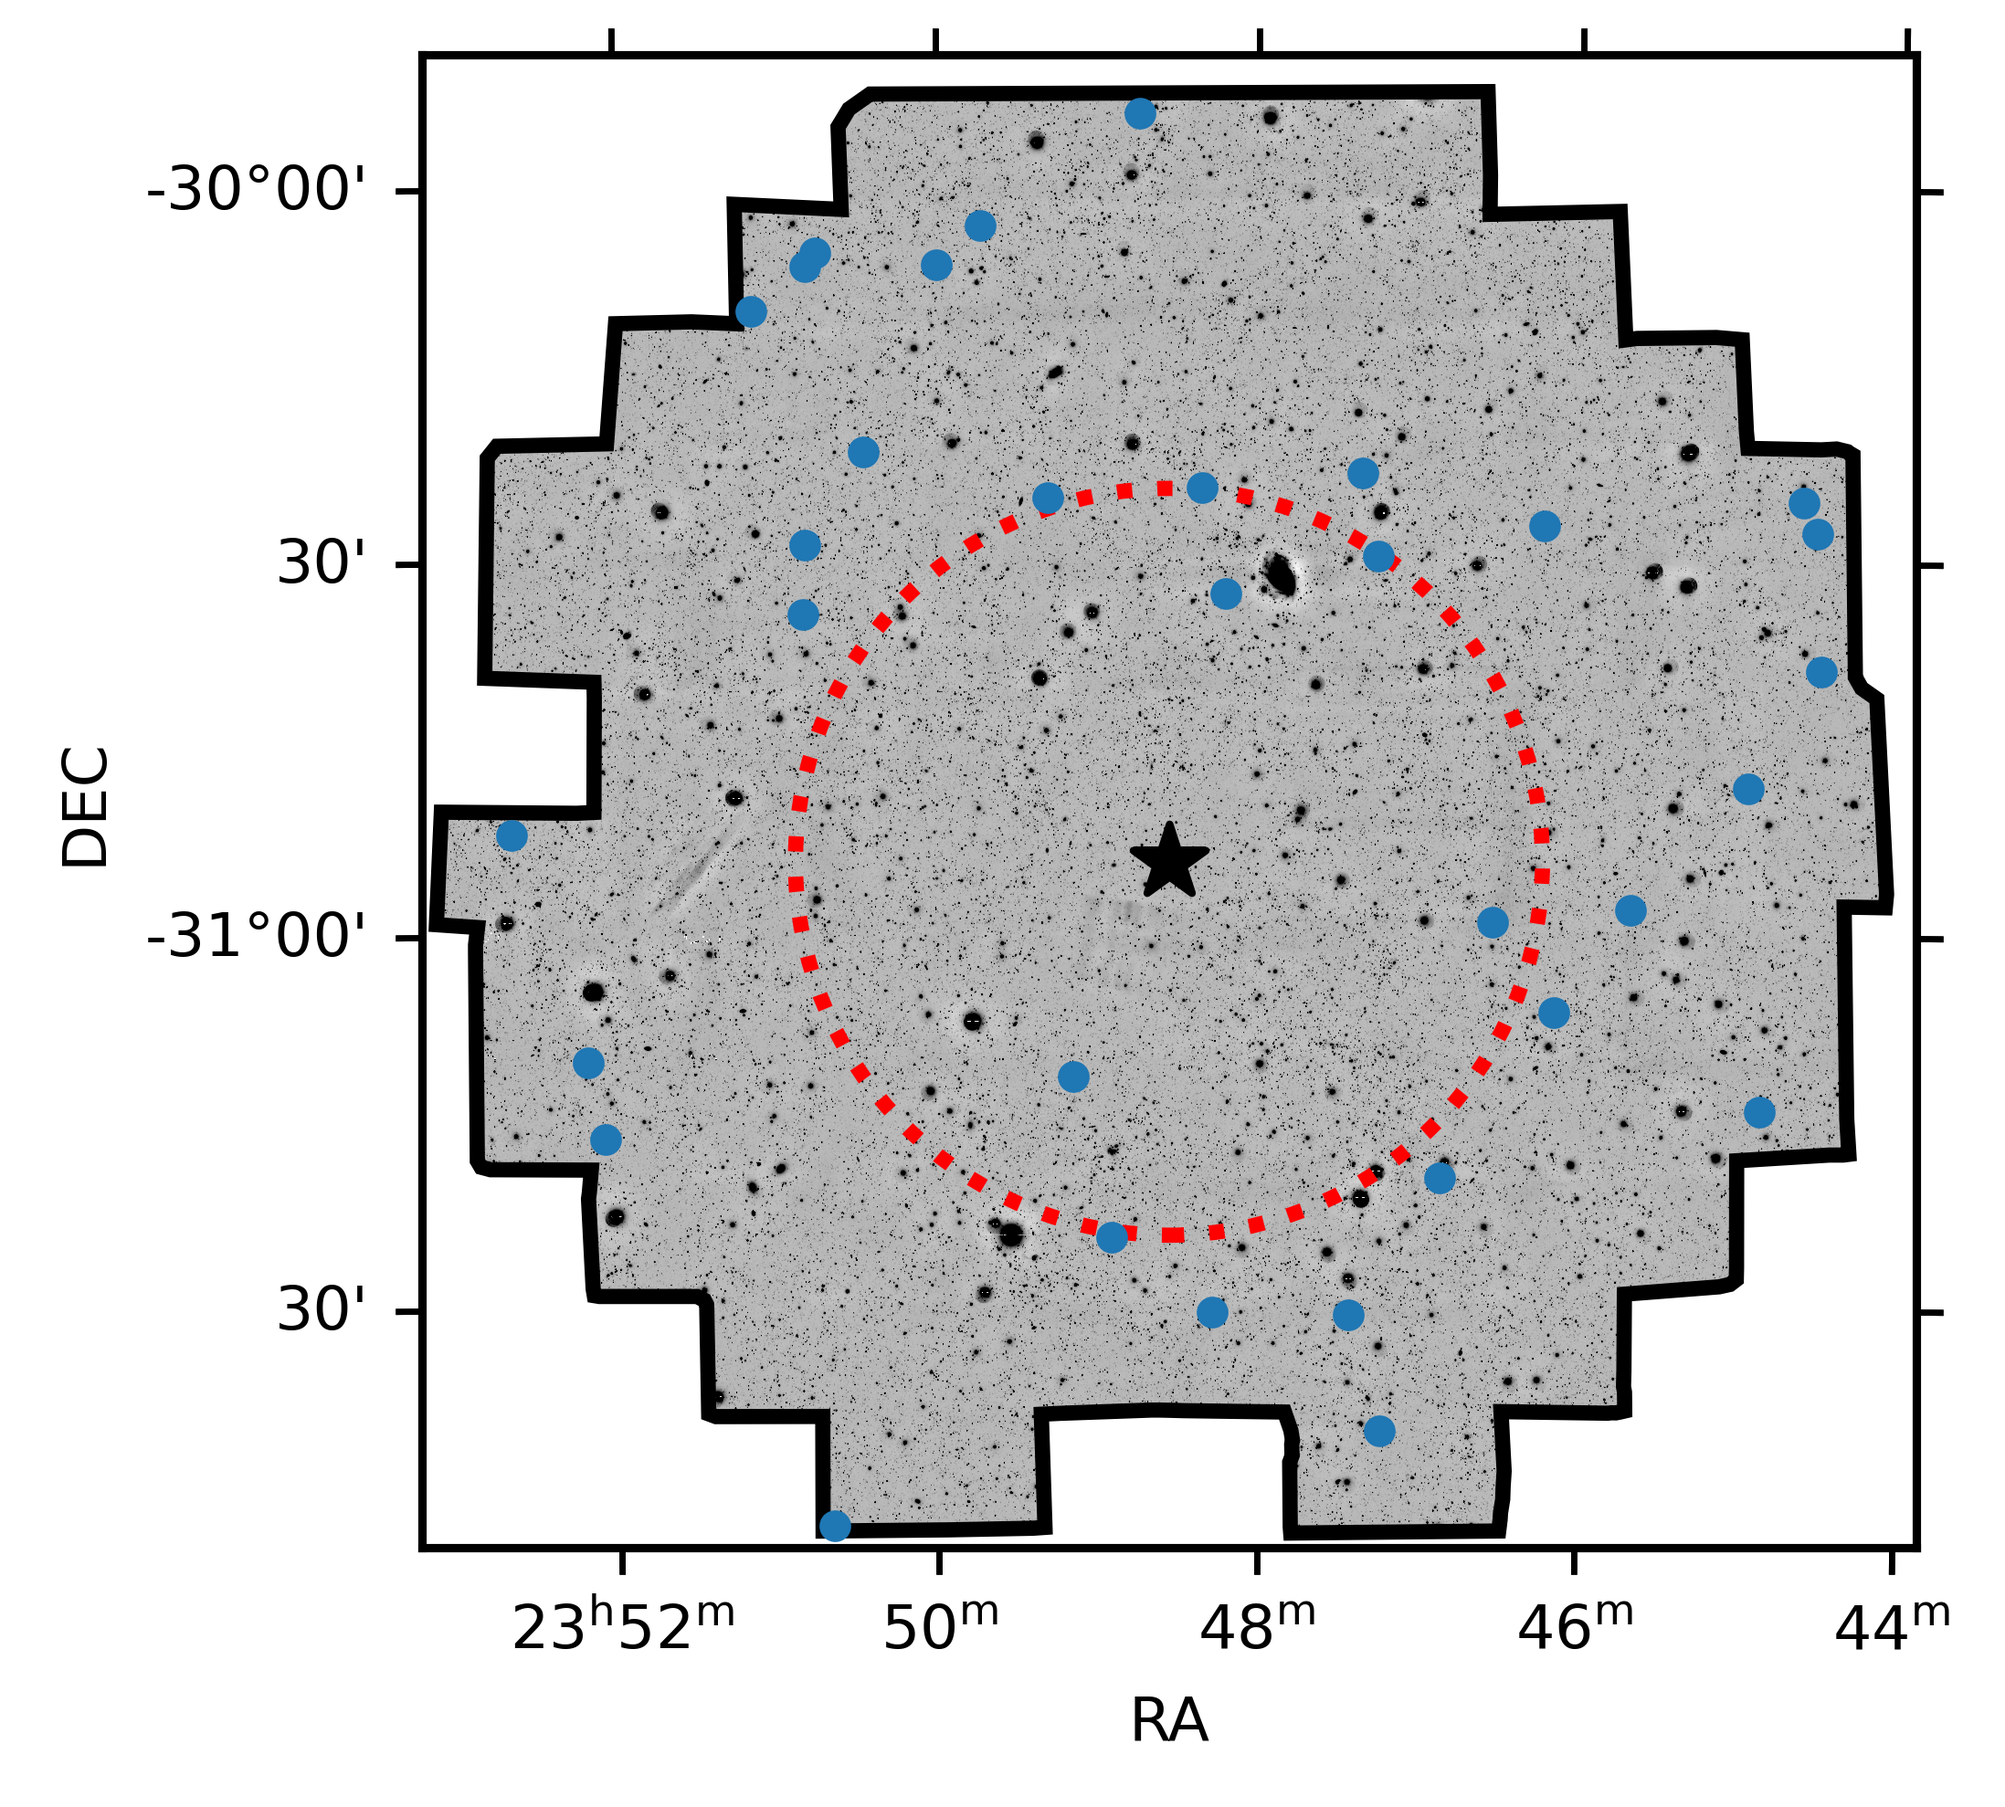
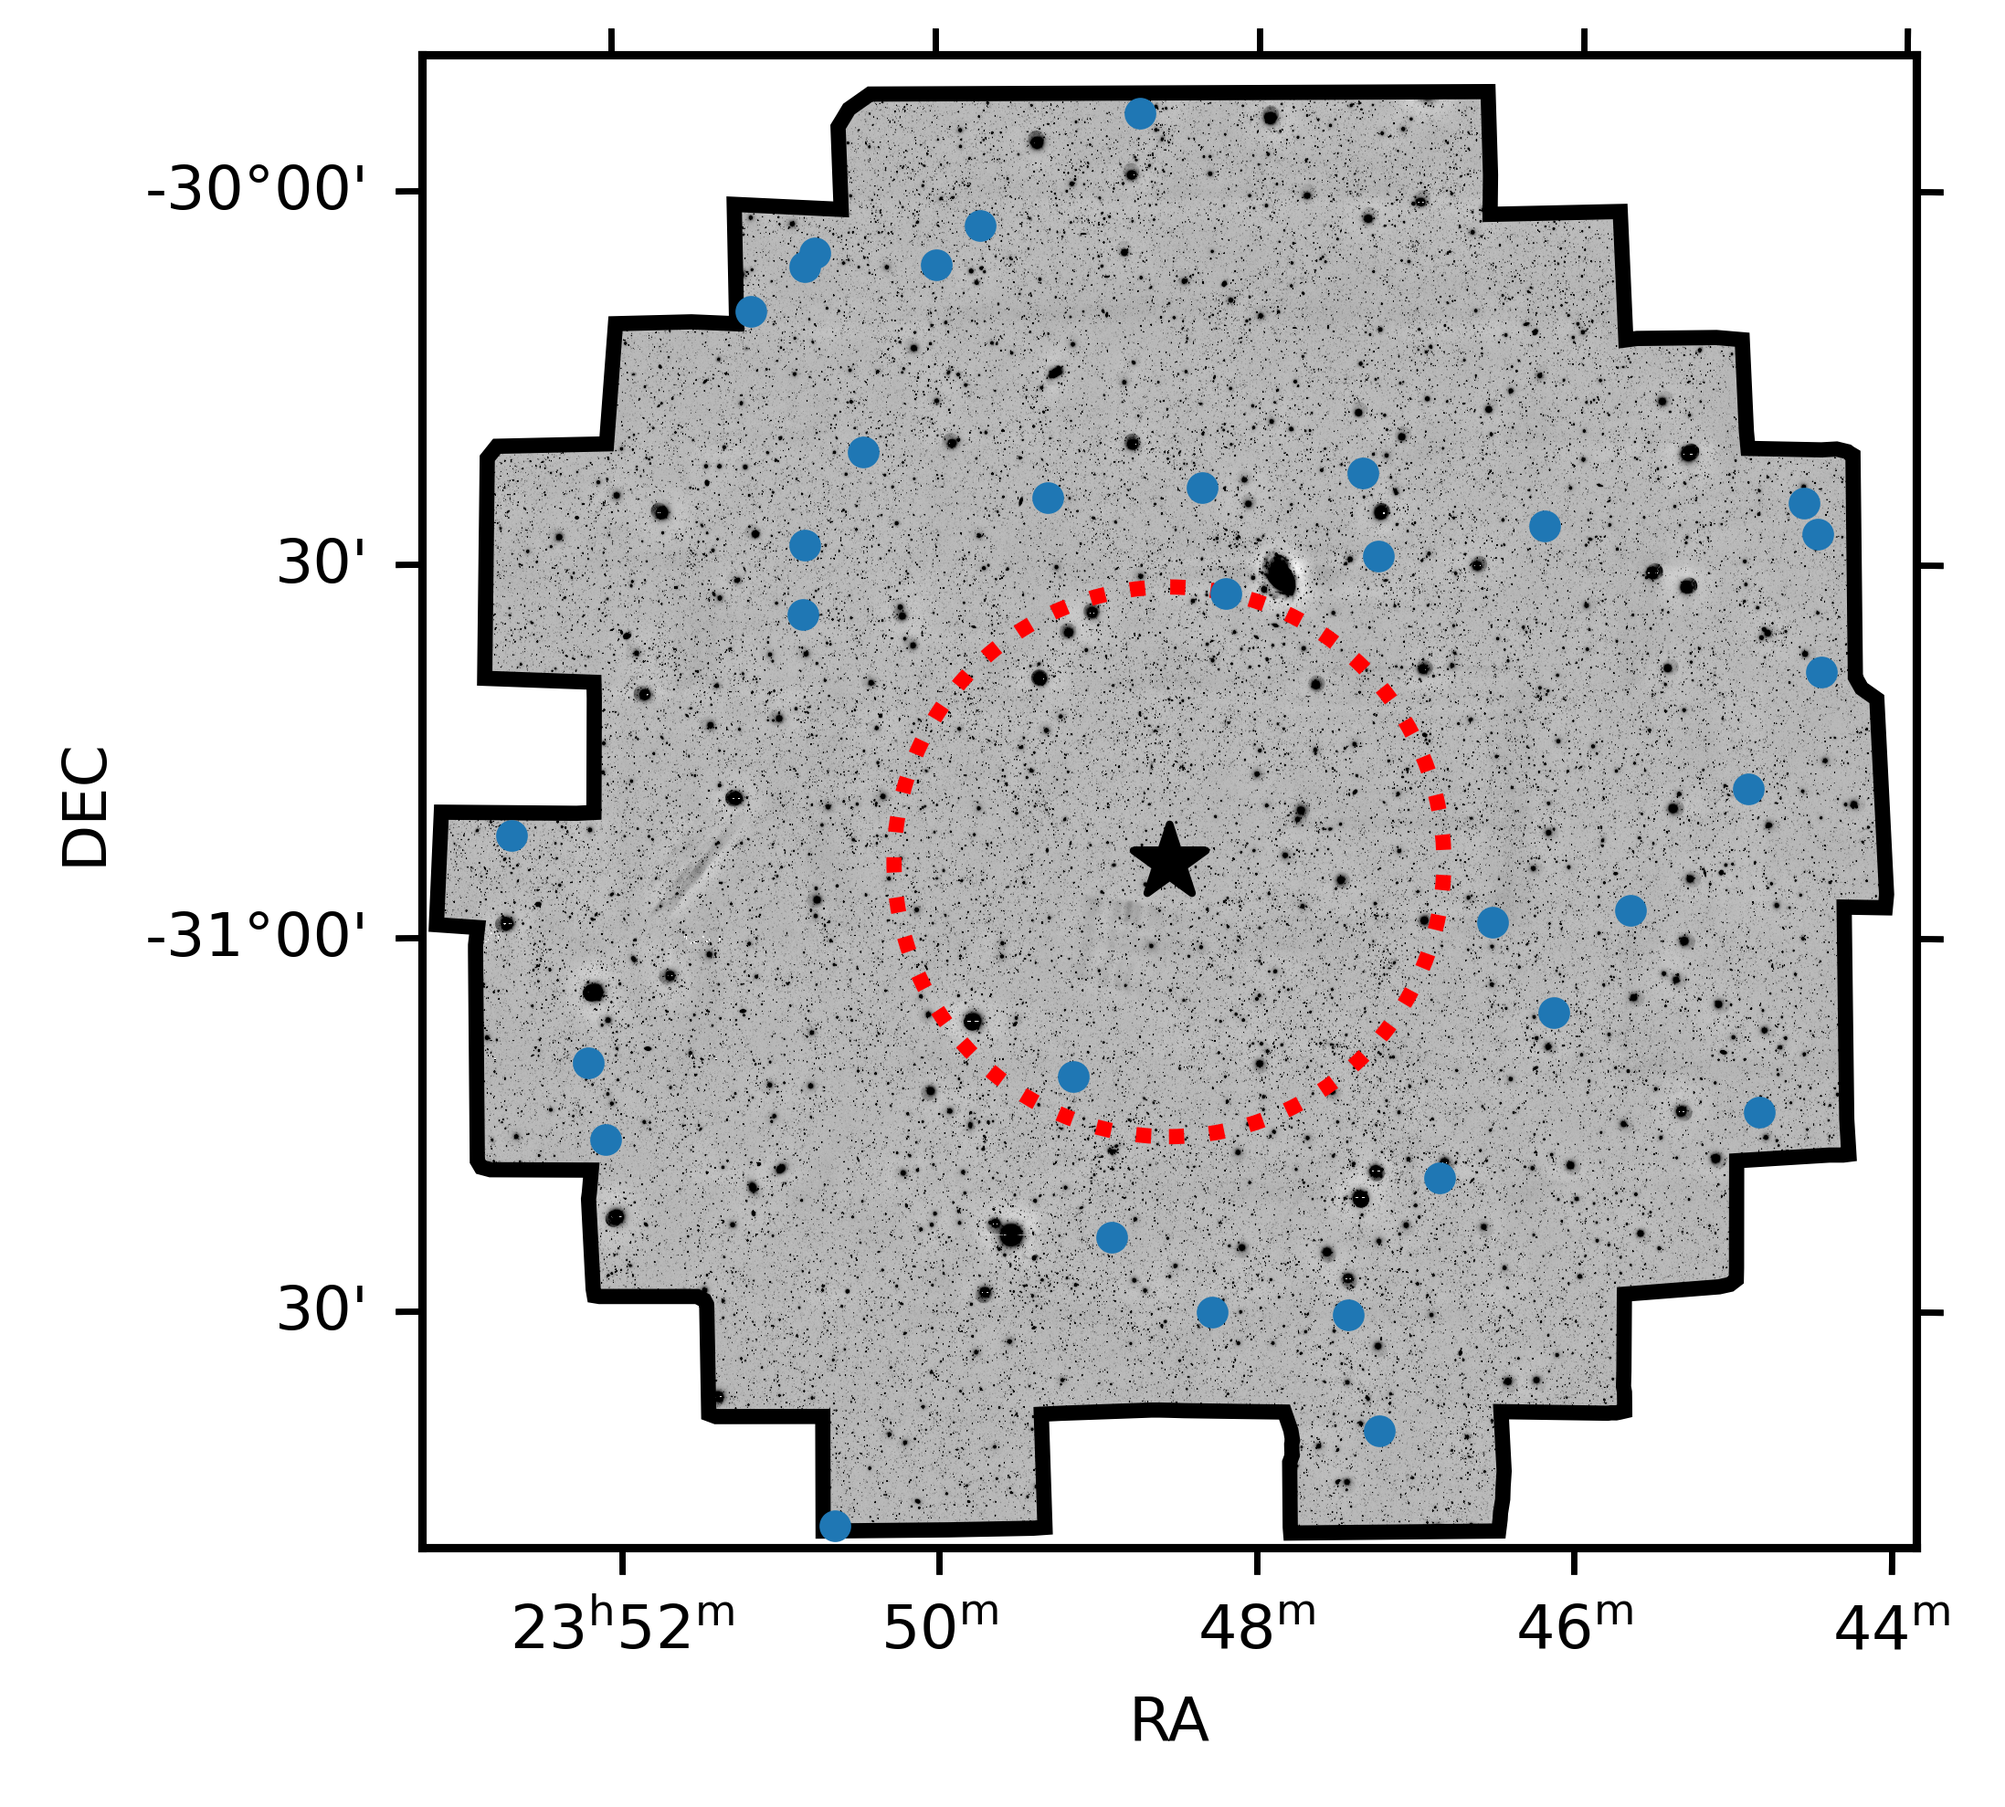
finding inner region

diff --git a/plot_cumulative_eduardo.py b/plot_cumulative_eduardo.py
@@ -7,12 +7,11 @@ import pylab as plt
 from astropy.coordinates import SkyCoord
 from astropy.cosmology import FlatLambdaCDM
 import astropy.units as u
-from pandas import DataFrame
 from astropy.io import fits
 
-from plot_cumulative import cross_match_to_sexcat, add_ab_mags
+from plot_cumulative import cross_match_to_sexcat
 from sex_catalog import SExtractorCat
-from zero_points import zero_points, ZeroPoints
+from zero_points import zero_points
 from zero_points_cdfs import zero_points_cdfs
 from plotting import start_plot, end_plot
 
@@ -47,12 +46,13 @@ inner_region_distance = DEG_PER_MPC * 75 * u.Mpc
 results = distances_to_quasar < inner_region_distance
 inner = len(np.where(results == True)[0])
 outer = len(np.where(results == False)[0])
-inner_area = (inner_region_distance.to(u.arcsec) **2) * np.pi
-outer_area = 27036703.3248 
+inner_area = 10176726.0573 # from plot_radial_distribution
+OUTER_AREA = 27036703.3248 # square arcseconds.
 
 
 #Error propagation
-def propagate_ratio(numerator: float, denominator: float, u_numerator: float, u_denominator: float) -> float:
+def propagate_ratio(
+        numerator: float, denominator: float, u_numerator: float, u_denominator: float) -> float:
     """Propagates the uncertainty based on the numerator and denominator uncertainties"""
     ratio = numerator/denominator
     uncertainty = ratio * np.hypot(u_numerator/numerator, u_denominator/denominator)
@@ -62,14 +62,15 @@ cdfs_density =  len(ra_cdfs)/CDFS_AREA
 our_density = len(ra_us)/DECAM_AREA
 cdfs_uncertainty = np.sqrt(len(ra_cdfs))/CDFS_AREA
 our_uncertainty = np.sqrt(len(ra_us))/DECAM_AREA
-inner_density = (inner/inner_area.value)
-outer_density  = (outer/outer_area)
-inner_uncertainty = np.sqrt(inner)/inner_area.value
-outer_uncertainty = np.sqrt(outer)/outer_area
+inner_density = inner/inner_area
+outer_density  = outer/OUTER_AREA
+inner_uncertainty = np.sqrt(inner)/inner_area
+outer_uncertainty = np.sqrt(outer)/OUTER_AREA
 inner_ratio = propagate_ratio(inner_density, cdfs_density, inner_uncertainty, cdfs_uncertainty)
 outer_ratio = propagate_ratio(outer_density, cdfs_density, outer_uncertainty, cdfs_uncertainty)
 ratio, uncertainty = propagate_ratio(our_density, cdfs_density, our_uncertainty, cdfs_uncertainty)
-main_result_ratio = propagate_ratio(outer_density, inner_density, outer_uncertainty, inner_uncertainty)
+main_result_ratio = propagate_ratio(
+    outer_density, inner_density, outer_uncertainty, inner_uncertainty)
 
 #Printing values
 print('CDFS density [arcseconds ^{-2}]: ', cdfs_density, '+-', cdfs_uncertainty)

diff --git a/poissin_significance.py b/poissin_significance.py
@@ -1,0 +1,63 @@
+"""
+Script to work out the statistical signficance of the inner region. 
+"""
+
+from rich.progress import track
+import numpy as np
+import pylab as plt
+from scipy.stats import poisson, norm
+from astropy.cosmology import FlatLambdaCDM
+from astropy.coordinates import SkyCoord
+import astropy.units as u
+from plot_radial_distribution import Mask
+
+
+REDSHIFT_QSO = 6.9
+COSMO = FlatLambdaCDM(H0=70, Om0=0.3)
+ARCSEC_PER_KPC = COSMO.arcsec_per_kpc_comoving(REDSHIFT_QSO)
+DEG_PER_MPC = ARCSEC_PER_KPC.to(u.deg / u.Mpc)
+RA_QSO = (23 + (48/60) + (33.34/3600)) * (360/24) * u.deg
+DEC_QSO = (30 + (54/60) + (10.0/3600)) * -1 *u.deg
+qso_position = SkyCoord(ra = RA_QSO, dec = DEC_QSO)
+
+def calculate_distances_to_quasar(ra_array: np.ndarray, dec_array: np.ndarray):
+    """Works out the distances to the quasar for a given ra and dec range."""
+    coords = SkyCoord(ra= ra_array*u.deg, dec = dec_array*u.deg)
+    return qso_position.separation(coords)
+
+def count_inner_outer(ra_array: np.ndarray, dec_array: np.ndarray, distance_deg: float) -> tuple:
+    """Calculates the number of sources within the deg distance and how many are outside of it."""
+    distances = calculate_distances_to_quasar(ra_array, dec_array)
+    results = distances < distance_deg
+    inner = len(np.where(results == True)[0])
+    outer = len(np.where(results == False)[0])
+
+    return inner, outer
+
+def calculate_area_ratio(mask: Mask, radius: float) -> float:
+    """Works out the scaling factor for the counts."""
+    radius_pixels = radius / mask.deg_per_pix
+    center = mask.wcs.world_to_pixel_values(RA_QSO.value, DEC_QSO.value)
+    outer_area = mask.calculate_area(center, radius_pixels, 100000)
+    inner_area = mask.calculate_area(center, 0, radius_pixels)
+    ratio = outer_area/inner_area
+    return ratio.value
+
+if __name__ == '__main__':
+    decam = Mask('DECAM_MASK.fits')
+    ra, dec = np.loadtxt('candidates_e.txt', unpack=True)
+
+    distances = np.arange(55, 60, 0.1) *u.Mpc
+
+    sigmas = []
+    for distance in track(distances):
+        inner_region_distance_deg = DEG_PER_MPC * distance
+        inner, outer = count_inner_outer(ra, dec, inner_region_distance_deg)
+        ratio = calculate_area_ratio(decam, inner_region_distance_deg)
+        expected_inner = inner * ratio
+        
+        probability = poisson.cdf(inner, expected_inner)
+        sigmas.append(norm.ppf(probability))
+
+    plt.plot(distances, sigmas)
+    plt.show()

diff --git a/plot_radial_distribution.py b/plot_radial_distribution.py
@@ -4,6 +4,7 @@ Plotting the radial distribution of the counts.
 
 from rich.progress import track
 import numpy as np
+from scipy.stats import linregress
 from astropy.io import fits
 from astropy.wcs import WCS
 import astropy.units as u
@@ -12,7 +13,7 @@ from astropy.coordinates import SkyCoord
 from astropy.coordinates.angles import Angle
 import pylab as plt
 import plotting
-from scipy.stats import linregress
+
 
 RA_QSO = (23 + (48/60) + (33.34/3600)) * (360/24)
 DEC_QSO = (30 + (54/60) + (10.0/3600)) * -1
@@ -134,7 +135,7 @@ def prepare_fitting(counts: np.ndarray, areas_vals: list):
 
 def linear_regression_with_errors(x_data: np.ndarray, y_data: np.ndarray, y_errors: np.ndarray):
     """Perform linear regression"""
-    slope, intercept, r_value, p_value, std_err = linregress(x_data, y_data)
+    slope, intercept, _, _, std_err = linregress(x_data, y_data)
 
     # Calculate uncertainties for gradient and intercept
     slope_uncertainty = std_err * np.sqrt(np.sum(1 / y_errors**2) / np.sum((x_data - np.mean(x_data))**2))
@@ -182,4 +183,3 @@ if __name__ == '__main__':
 
     plot_radial_profile(counts_cdfs, areas_cdfs, average_radii_mpc, average_radii_deg, 'plots/surface_density_cdfs.png')
     plot_radial_profile(counts_decam, areas_decam, average_radii_mpc, average_radii_deg, 'plots/surface_density.png')
-

diff --git a/plot_onsky_distribution.py b/plot_onsky_distribution.py
@@ -67,7 +67,7 @@ if __name__ == '__main__':
 
     #On sky distribution plot.
     #region_1 = set_region(ra_qso_plot, dec_qso_plot, 1)
-    region_10 = set_region(ra_qso_plot, dec_qso_plot, 75)
+    region_10 = set_region(ra_qso_plot, dec_qso_plot, 55.2)
     #region_20 = set_region(ra_qso_plot, dec_qso_plot, 20)
 
     fig = plt.figure(figsize = (3.54, 3.54), dpi = 600)
